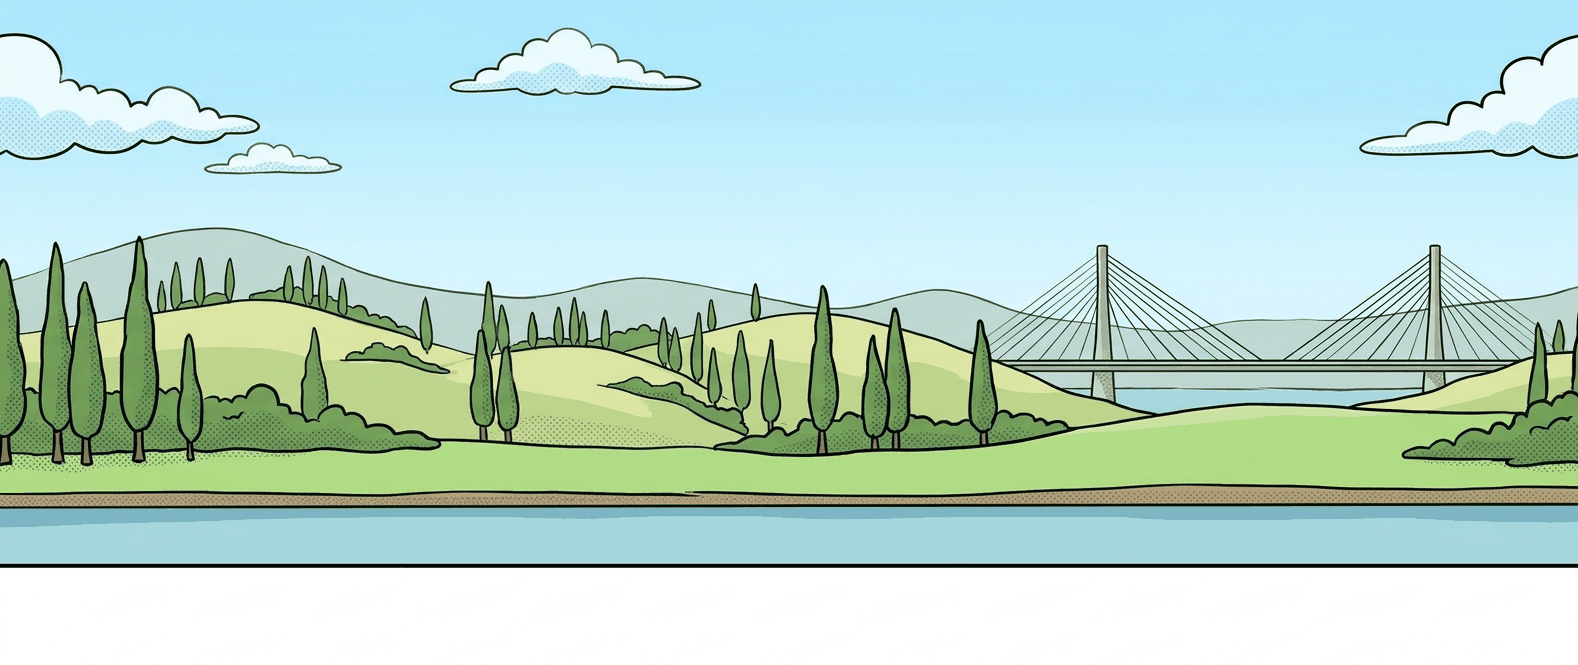
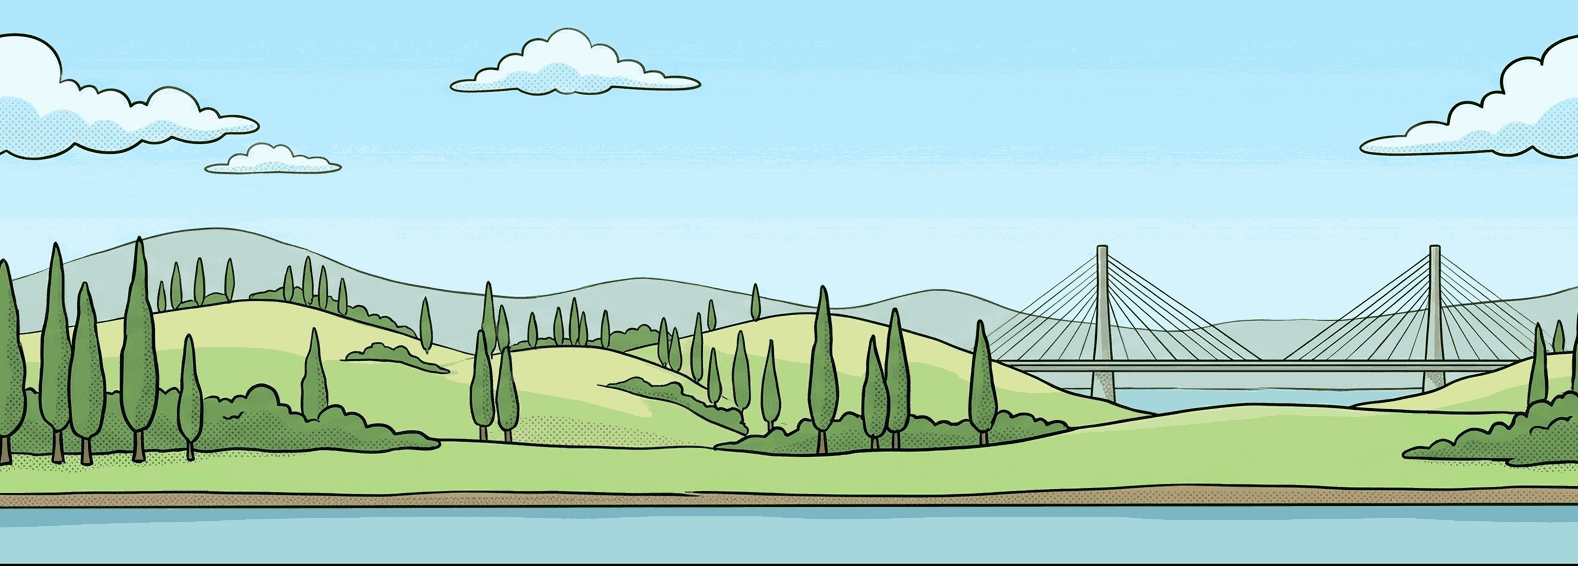
Tino Pro Skate: niente più Arno bianco sotto il Ponte Vecchio
I fondali lontani avevano in fondo una fascia bianca (tagliata); dietro il
Ponte Vecchio ora c'è l'acqua dell'Arno.

Claude-Session: https://claude.ai/code/session_018E1CMVXXmYZ3MqJ3pZLQsQ

diff --git a/games/tino-pro-skate/gioco.js b/games/tino-pro-skate/gioco.js
@@ -2304,7 +2304,21 @@
     const yb = yStrada() - 30, w = c.w, p = stato.cam.x * 0.3;
     for (let k = Math.floor(p / w); k * w - p < larg + 20; k++) {
       const x = Math.floor(k * w - p);
-      if (pv && hash(k * 31 + 7) < 0.3) ctx.drawImage(pv.tela, x + (w - pv.w) / 2, yb - 150 + 8, pv.w, 150);
+      if (pv && hash(k * 31 + 7) < 0.3) {
+        // l'Arno: si vede sotto gli archi e ai lati del ponte
+        const g = ctx.createLinearGradient(0, yb - 64, 0, yb + 20);
+        g.addColorStop(0, '#7fb3ad'); g.addColorStop(1, '#4f8f8a');
+        ctx.fillStyle = g;
+        ctx.fillRect(x, yb - 64, w + 0.5, 84);
+        ctx.strokeStyle = 'rgba(255,255,255,0.5)'; ctx.lineWidth = 2;
+        for (let i = 0; i < 9; i++) {
+          const xx = x + hash(k * 13 + i) * w, yy = yb - 56 + hash(k * 17 + i) * 50;
+          ctx.beginPath(); ctx.moveTo(xx, yy); ctx.lineTo(xx + 16 + hash(k + i) * 16, yy); ctx.stroke();
+        }
+        ctx.strokeStyle = '#1c1f27'; ctx.lineWidth = 2.5;
+        ctx.beginPath(); ctx.moveTo(x, yb - 64); ctx.lineTo(x + w, yb - 64); ctx.stroke();
+        ctx.drawImage(pv.tela, x + (w - pv.w) / 2, yb - 150 + 8, pv.w, 150);
+      }
       else ctx.drawImage(c.tela, x, yb - 182, w + 0.5, 182);
     }
   }

diff --git a/CLAUDE.md b/CLAUDE.md
@@ -1044,7 +1044,9 @@ logica, su canvas), `ghianda.svg`.
   proprietario; tolte solo le perline e lo sfondo bianco sopra il tetto); turista F6 (la
   persona), non l'orsetto F6b; lo scavo C9 è tagliato sotto i bordi in prospettiva (i tubi sui
   bordi sono disegnati nel codice); del fango C6 resta solo la pozza (via l'asfalto, tenuti i
-  pixel marroni). File: `fondali/<q>-lontano|medio|vicino.png` per `novoli`, `cantieri`,
+  pixel marroni). I lontani di Gemini (anche quello delle Cascine) avevano in fondo una fascia
+  bianca, tagliata: nel centro si vedeva sotto gli archi del Ponte Vecchio, che ora ha dietro
+  l'acqua dell'Arno disegnata nel codice. File: `fondali/<q>-lontano|medio|vicino.png` per `novoli`, `cantieri`,
   `centro`, `fondali/ponte-vecchio.png`; `elementi/` scalinata, corrimano, fioriera,
   monopattini, ruspa, benna, fango, binari, tram, sampietrini, turista, bancarella, bici;
   `pipe/scavo.png`, `pipe/muro-cantiere.png`; `mezzi/` ape, monopattino, carrello, golf
